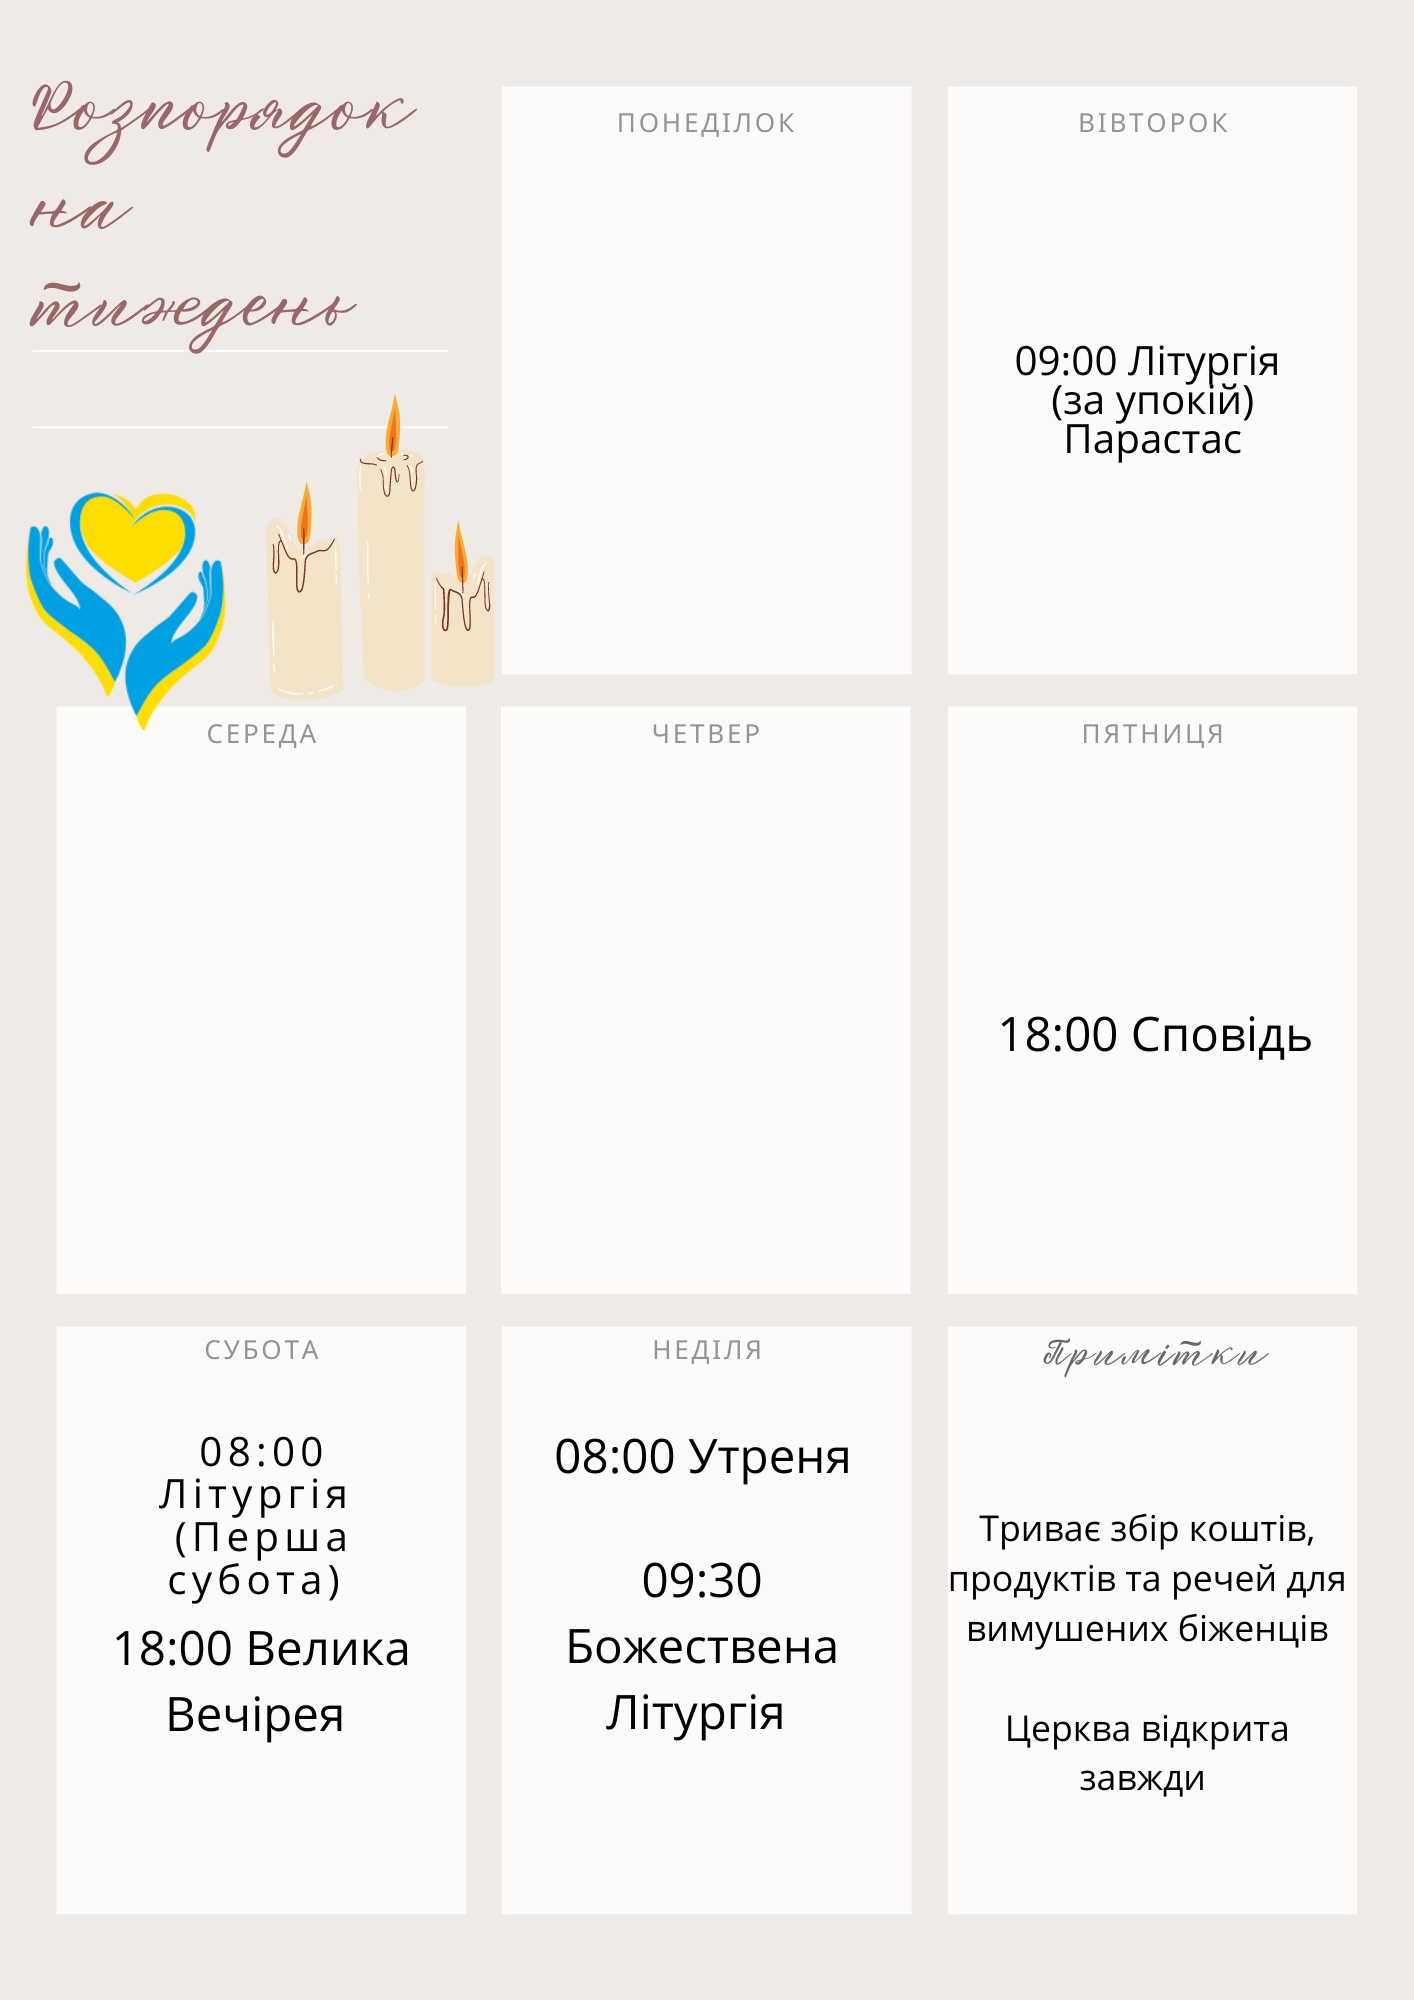
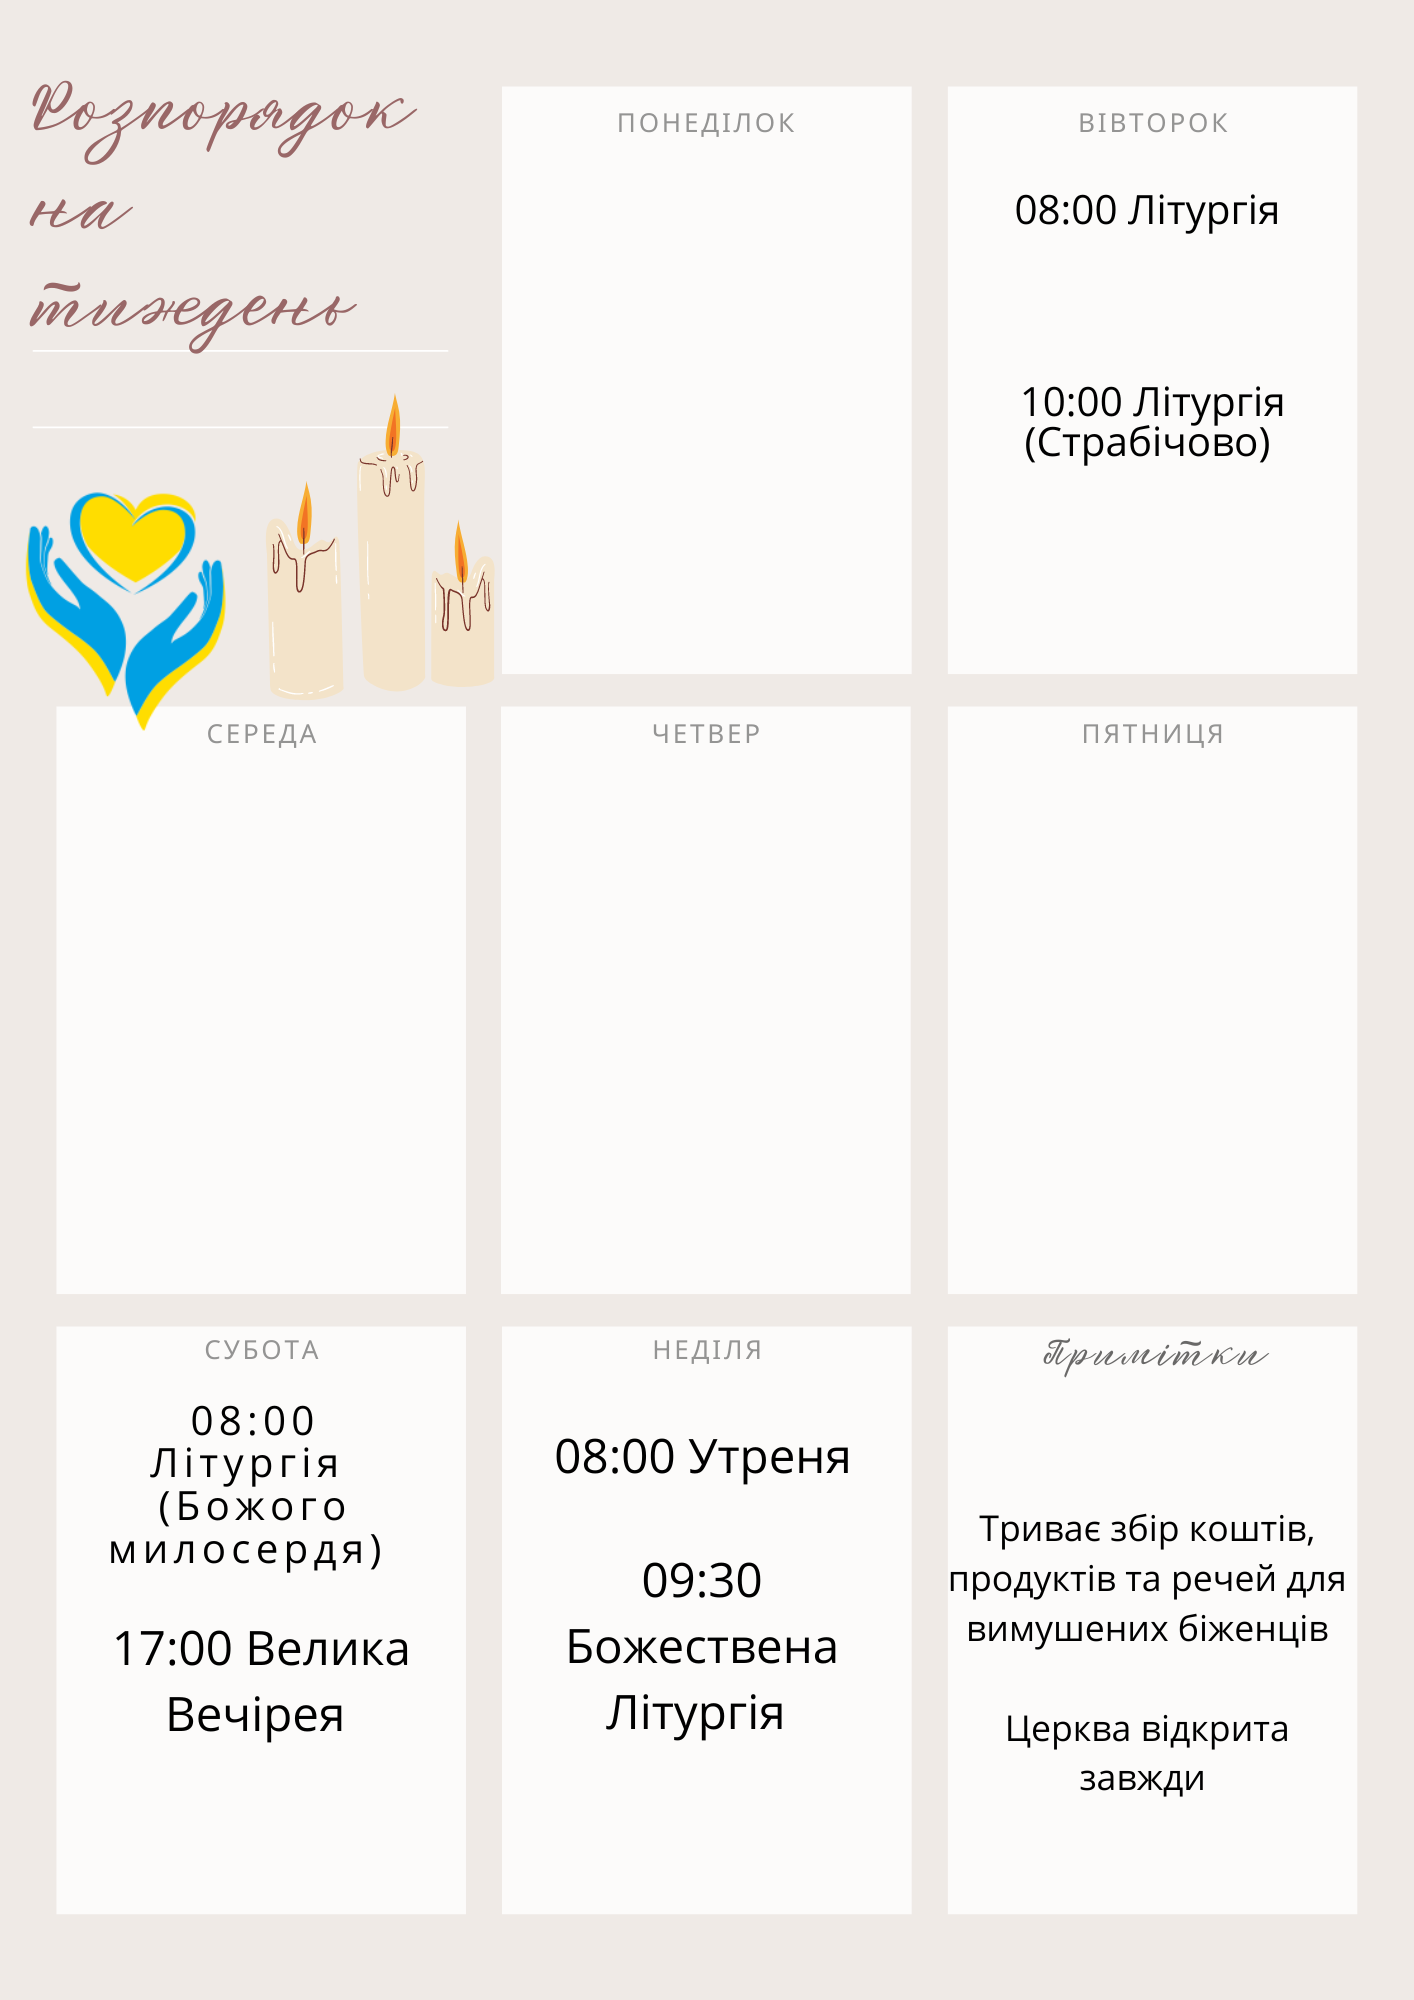
new schedule

diff --git a/src/components/News.js b/src/components/News.js
@@ -17,7 +17,7 @@ const News = () => {
         {/* Schedule */}
 
         <div className={classes.schedule}>
-          <h1>Розклад богослужінь(31.10.2022 - 06.11.2022)</h1>
+          <h1>Розклад богослужінь(07.11.2022 - 13.11.2022)</h1>
           <img src={Schedule} alt="schedule" />
         </div>
 
@@ -38,11 +38,10 @@ const News = () => {
           </div>
 
           <div className={classes.wrapper}>
-            <p>31 жовтня 2022 року - день пам'яті мученика Теодора Ромжі</p>
-          </div>
-
-          <div className={classes.wrapper}>
-            <p>1 листопада 2022 року - день пам'яті всіх померлих</p>
+            <p>
+              8 листопада 2022 року - Великомученика Димитрія Мироточця. Храмове
+              свято в с. Страбичово
+            </p>
           </div>
         </div>
       </section>
